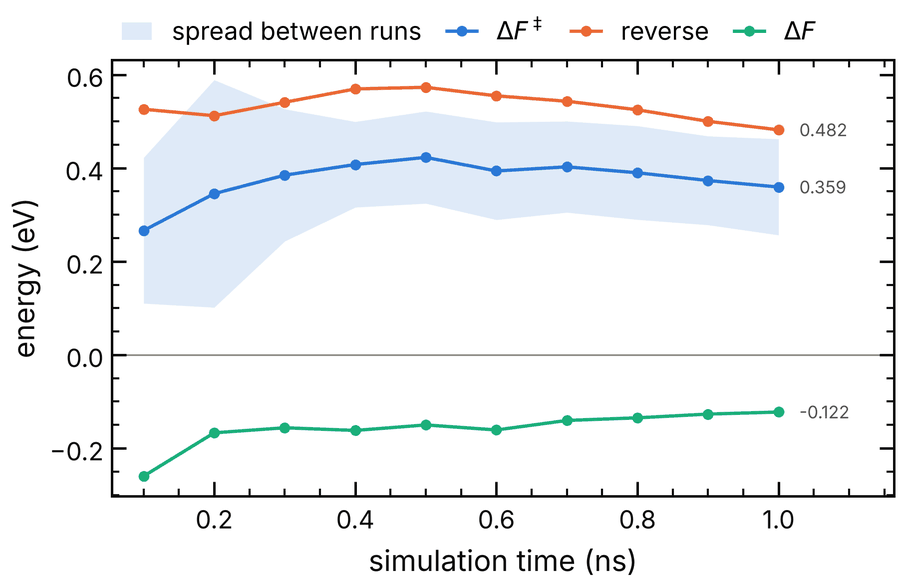
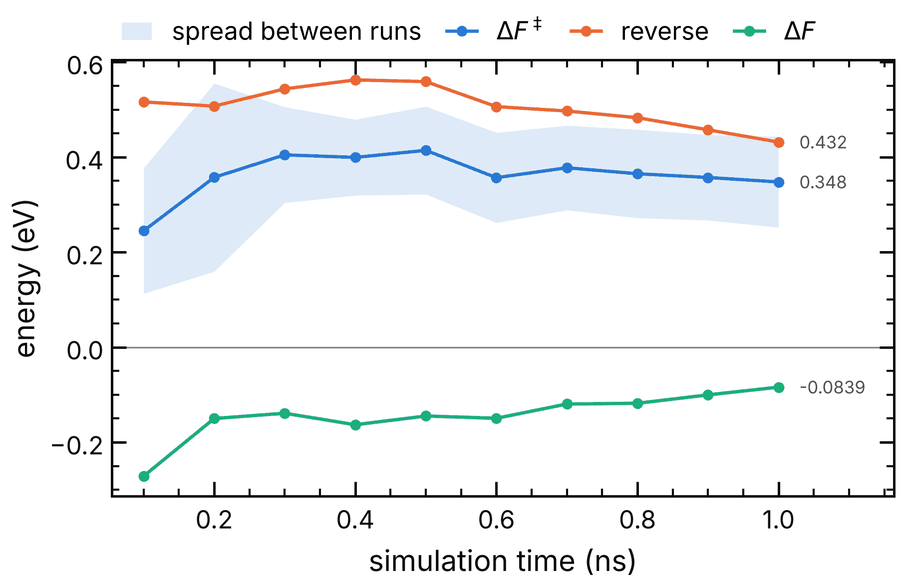
Combine runs with equal weights by default
Independent OPES simulations, even with identical inputs, have biases
shifted by different constants (OPES's normalisation, visible as different
rct), and the probability mode weights every frame by exp(V/kT) including
that shift. equal (each run's normalised density counts the same) is now
the default for reweight, combine, along-path and convergence;
--combine probability remains for runs that share one bias, e.g. time
blocks of one simulation. Quick start outputs and figures regenerated.

Claude-Session: https://claude.ai/code/session_014aybALPa8PAfTer2scbYYa

diff --git a/src/estk/cli/main.py b/src/estk/cli/main.py
@@ -245,10 +245,11 @@ def reweight(
     combine: Annotated[
         str,
         typer.Option(
-            help="Combine the runs: probability (default; = all frames together), equal "
-            "(every run counts the same), legacy (as the original scripts), none."
+            help="Combine the runs: equal (default; every run counts the same), probability "
+            "(= all frames together; for runs sharing one bias), legacy (as the original "
+            "scripts), none."
         ),
-    ] = "probability",
+    ] = "equal",
     output: Annotated[
         Path | None,
         typer.Option(
@@ -414,8 +415,8 @@ def bandwidth_command(
 def combine_files(
     files: Annotated[list[Path], typer.Argument(help="Per-run surfaces written by estk reweight.")],
     mode: Annotated[
-        str, typer.Option("--mode", "-m", help="probability (default), equal or legacy.")
-    ] = "probability",
+        str, typer.Option("--mode", "-m", help="equal (default), probability or legacy.")
+    ] = "equal",
     output: Annotated[Path, typer.Option("--output", "-o", help="Output file.")] = Path(
         "combined.dat"
     ),
@@ -664,7 +665,7 @@ def along_path(
     include_walls: Annotated[
         bool, typer.Option("--include-walls", help="Add the PLUMED wall energies to the bias.")
     ] = False,
-    combine: Annotated[str, typer.Option(help="probability (default) or equal.")] = "probability",
+    combine: Annotated[str, typer.Option(help="equal (default) or probability.")] = "equal",
     blocks: Annotated[
         int, typer.Option(help="Time blocks per run, as runs (error bar of one simulation).")
     ] = 1,
@@ -951,7 +952,7 @@ def convergence_time(
         list[str] | None, typer.Option(help="Bandwidth, e.g. d0=0.02, or scv / silverman.")
     ] = None,
     include_walls: Annotated[bool, typer.Option("--include-walls")] = False,
-    combine: Annotated[str, typer.Option(help="probability, equal or legacy.")] = "probability",
+    combine: Annotated[str, typer.Option(help="equal (default), probability or legacy.")] = "equal",
     jobs: Annotated[int, typer.Option("--jobs", "-j")] = 1,
     method: Annotated[str, typer.Option(help="Minima for the path: basins or split.")] = "basins",
     split_axis: Annotated[str | None, typer.Option(help="CV to split along.")] = None,
@@ -1003,7 +1004,7 @@ def convergence_bandwidth(
         list[str] | None, typer.Option(help="Bandwidth of the other CVs, e.g. cn=0.03.")
     ] = None,
     include_walls: Annotated[bool, typer.Option("--include-walls")] = False,
-    combine: Annotated[str, typer.Option(help="probability, equal or legacy.")] = "probability",
+    combine: Annotated[str, typer.Option(help="equal (default), probability or legacy.")] = "equal",
     jobs: Annotated[int, typer.Option("--jobs", "-j")] = 1,
     method: Annotated[str, typer.Option(help="Minima for the path: basins or split.")] = "basins",
     split_axis: Annotated[str | None, typer.Option(help="CV to split along.")] = None,

diff --git a/tests/test_combine.py b/tests/test_combine.py
@@ -59,7 +59,7 @@ def two_runs_and_merged(tmp_path_factory):
 
 def test_probability_mode_equals_reweighting_all_frames_together(two_runs_and_merged):
     runs, merged = two_runs_and_merged
-    result = runs.reweight(["d0", "cn"], points=(21, 15))
+    result = runs.reweight(["d0", "cn"], points=(21, 15), combine="probability")
     single = merged.reweight(["d0", "cn"], points=(21, 15), combine=None).surfaces["all"]
     combined = result.combined
     assert combined.metadata["combined"] == "probability"
@@ -84,7 +84,8 @@ def test_property_combination_equals_all_frames_together(two_runs_and_merged):
             q = np.sin(3 * table["d0"]) + table["cn"]
             text = "\n".join(f"{t:.8f} {v:.10f}" for t, v in zip(table.time, q, strict=True))
             (run.path / "CV-q").write_text("#! FIELDS time q\n" + text + "\n")
-    combined = runs.reweight(["d0", "cn"], quantity="q", points=(11, 9)).combined
+    combined = runs.reweight(["d0", "cn"], quantity="q", points=(11, 9),
+                             combine="probability").combined  # fmt: skip
     single = merged.reweight(["d0", "cn"], quantity="q", points=(11, 9)).surfaces["all"]
     np.testing.assert_allclose(combined.values, single.values, rtol=1e-8, atol=1e-10)
     np.testing.assert_allclose(combined.fes, single.fes, atol=1e-8)
@@ -141,7 +142,7 @@ def test_probability_mode_with_different_bandwidths():
         d2 = ((g[:, None, :] - pts[None]) / np.array(h)) ** 2
         normal = np.exp(-0.5 * d2.sum(axis=2)) / (2 * np.pi * h[0] * h[1])
         expected += (normal @ np.exp(raw)).reshape(grid.shape)
-    combined = combine(runs)
+    combined = combine(runs, mode="probability")
     f = -kbt * np.log(expected)
     np.testing.assert_allclose(combined.values, f - f.min(), atol=1e-9)
 

diff --git a/src/estk/reweight/combine.py b/src/estk/reweight/combine.py
@@ -2,12 +2,16 @@
 
 Modes
 -----
-``probability`` (default)
+``equal`` (default)
+    Average the runs' normalised densities: every run counts the same. Independent simulations
+    have biases shifted by different constants (OPES' normalisation, seen in ``rct``), which this
+    mode is insensitive to.
+``probability``
     Sum the runs' densities, each with its total weight ``sum_i exp(V_i / kT)``. This is the
-    same as reweighting all frames of all runs together. Kernels are normalised per run, so runs
-    with different bandwidths are combined correctly.
-``equal``
-    Average the runs' normalised densities: every run counts the same.
+    same as reweighting all frames of all runs together, right when the runs share one bias
+    (e.g. time blocks of one simulation) but tilted by the bias offsets between independent
+    simulations. Kernels are normalised per run, so runs with different bandwidths are
+    combined correctly.
 ``legacy``
     What the original scripts did, to compare with old ``-AVG.dat`` files: average the per-run
     free energies (each shifted to minimum 0) with run weights ``sum_i exp((V_i - V_max) / kT)``,
@@ -33,9 +37,7 @@ from estk.surface import Surface
 MODES = ("probability", "equal", "legacy")
 
 
-def combine(
-    surfaces: Mapping[str, Surface] | Sequence[Surface], mode: str = "probability"
-) -> Surface:
+def combine(surfaces: Mapping[str, Surface] | Sequence[Surface], mode: str = "equal") -> Surface:
     """Combine per-run surfaces on the same grid into one surface; see the module docstring."""
     if mode not in MODES:
         raise EstError(f"unknown combination mode '{mode}' (choose from {', '.join(MODES)})")

diff --git a/tests/test_cli.py b/tests/test_cli.py
@@ -158,17 +158,18 @@ def test_reweight_combines_and_combine_command(workdir):
     (workdir / "estk.yaml").write_text("runs:\n  pattern: '0*'\n")
     result = run("reweight", "d0", "cn", "--points", "6,5")
     assert result.exit_code == 0, result.output
-    assert "runs combined with mode 'probability'" in result.output
+    assert "runs combined with mode 'equal'" in result.output  # the default
     from estk.surface import Surface
 
     combined = Surface.load(workdir / "reweight-d0-cn" / "combined.dat")
-    assert combined.metadata["combined"] == "probability"
+    assert combined.metadata["combined"] == "equal"
+    assert combined.metadata["run_weights"] == {"000": 0.5, "001": 0.5}
 
     files = [str(p) for p in sorted((workdir / "reweight-d0-cn").glob("*.dat"))]
-    result = run("combine", *files, "--mode", "equal", "-o", "equal.dat")
+    result = run("combine", *files, "--mode", "probability", "-o", "prob.dat")
     assert result.exit_code == 0, result.output
-    assert Surface.load(workdir / "equal.dat").metadata["run_weights"] == {"000": 0.5, "001": 0.5}
-    assert run("combine", *files, "-o", "equal.dat").exit_code == 1  # exists
+    assert Surface.load(workdir / "prob.dat").metadata["combined"] == "probability"
+    assert run("combine", *files, "-o", "prob.dat").exit_code == 1  # exists
     assert "unknown mode" in run("reweight", "d0", "cn", "--combine", "mean").output
 
     result = run("reweight", "d0", "cn", "--points", "6,5", "--combine", "none", "-o", "nocomb")

diff --git a/tests/test_walkers.py b/tests/test_walkers.py
@@ -101,7 +101,8 @@ def test_pooled_surface_is_the_probability_combination(root):
     """Pooling walkers that share a bias = reweighting all their frames together."""
     pooled = Project(root / "estk.yaml").reweight(["d0", "cn"], points=(31, 21))
     (root / "estk.yaml").write_text(CONFIG.format(walkers="  walkers: separate\n"))
-    separate = Project(root / "estk.yaml").reweight(["d0", "cn"], points=(31, 21))
+    separate = Project(root / "estk.yaml").reweight(["d0", "cn"], points=(31, 21),
+                                                     combine="probability")  # fmt: skip
     assert list(separate.surfaces) == ["sim1.w0", "sim1.w1", "sim1.w2"]
     a, b = pooled.surfaces["sim1"].values, separate.combined.values
     finite = np.isfinite(a)
@@ -111,7 +112,7 @@ def test_pooled_surface_is_the_probability_combination(root):
 def test_blocks(root):
     project = Project(root / "estk.yaml")
     whole = project.reweight(["d0", "cn"], points=(31, 21)).surfaces["sim1"]
-    result = project.reweight(["d0", "cn"], points=(31, 21), blocks=3)
+    result = project.reweight(["d0", "cn"], points=(31, 21), blocks=3, combine="probability")
     assert list(result.surfaces) == ["sim1.b1", "sim1.b2", "sim1.b3"]
     assert sum(s.metadata["frames"] for s in result.surfaces.values()) == WALKERS * N
     assert result.surfaces["sim1.b2"].metadata["block_of"] == "sim1"

diff --git a/src/estk/reweight/core.py b/src/estk/reweight/core.py
@@ -206,7 +206,7 @@ def reweight(
     include_walls: bool = False,
     jobs: int = 1,
     skip_failed: bool = False,
-    combine: str | None = "probability",
+    combine: str | None = "equal",
     blocks: int = 1,
 ) -> ReweightResult:
     """Reweight every run of ``project`` onto one grid, and combine the runs.
@@ -238,7 +238,7 @@ def reweight(
         Leave out runs that fail (they are listed in ``failed``) instead of stopping.
     combine:
         How to combine the runs into ``result.combined`` (see ``estk.reweight.combine``):
-        ``"probability"``, ``"equal"``, ``"legacy"``, or None for no combination.
+        ``"equal"`` (default), ``"probability"``, ``"legacy"``, or None for no combination.
     blocks:
         Split each run into this many consecutive time blocks (``<run>.b1``, ...) and reweight
         each: the spread between them estimates the error of a single simulation, e.g. of

diff --git a/tests/test_along_path.py b/tests/test_along_path.py
@@ -74,7 +74,7 @@ def test_kde_at_points_matches_brute_force(project):
 
 
 def test_averages_and_combination(project, path):
-    result = averages_along_path(project, path, ["q"])
+    result = averages_along_path(project, path, ["q"], combine="probability")
     tables = {run.name: run.load_cvs(["d0", "cn", "q"]) for run in project.runs}
     k = 4
     for name, table in tables.items():
@@ -96,7 +96,7 @@ def test_averages_and_combination(project, path):
     np.testing.assert_allclose(result.values["q"], q_of(*path.points.T), atol=0.1)
     assert result.saddle_index == 4 and result.metadata["combined"] == "probability"
 
-    equal = averages_along_path(project, path, ["q"], combine="equal")
+    equal = averages_along_path(project, path, ["q"])  # the default
     assert not np.allclose(equal.values["q"], result.values["q"])
 
 

diff --git a/src/estk/analysis/convergence.py b/src/estk/analysis/convergence.py
@@ -153,7 +153,7 @@ def barrier_convergence(
     if not values:
         raise EstError("no values to scan")
     options = dict(reweight_options or {})
-    combine = options.pop("combine", "probability") or "probability"
+    combine = options.pop("combine", "equal") or "equal"
     for key in ("time", "quantity", "source"):
         if key in options:
             raise EstError(f"'{key}' can't be set in reweight_options here")

diff --git a/src/estk/analysis/along_path.py b/src/estk/analysis/along_path.py
@@ -109,7 +109,7 @@ def averages_along_path(
     bandwidth: Mapping[str, float] | None = None,
     bandwidth_method: str | None = None,
     include_walls: bool = False,
-    combine: str = "probability",
+    combine: str = "equal",
     blocks: int = 1,
 ) -> AlongPathResult:
     """Average ``quantities`` at each image of ``path`` (a path computed by ``estk mep``).

diff --git a/docs/quickstart.md b/docs/quickstart.md
@@ -184,11 +184,11 @@ grid d0: 1.5 (estk.yaml) to 2.5 (estk.yaml), 100 points
 grid cn: 0.75 (estk.yaml) to 2.2 (PLUMED walls), 100 points
  run   frames   n_eff   h(d0)       h(cn)       weight   past walls
                         silverman   silverman
- 000   2121     81      0.02018     0.05799     0.256    d0 upper 2.2: 457 frames, max 14.1 kT
- 001   2152     92      0.01794     0.04884     0.199    ...
- 002   2122     30      0.0207      0.04843     0.051
- 003   2102     186     0.01644     0.04333     0.495
-runs combined with mode 'probability' -> combined.dat
+ 000   2121     81      0.02018     0.05799     0.250    d0 upper 2.2: 457 frames, max 14.1 kT
+ 001   2152     92      0.01794     0.04884     0.250    ...
+ 002   2122     30      0.0207      0.04843     0.250
+ 003   2102     186     0.01644     0.04333     0.250
+runs combined with mode 'equal' -> combined.dat
 wrote 5 file(s) to reweight-d0-cn/
 ```
 
@@ -205,7 +205,7 @@ This writes one surface per run, `reweight-d0-cn/000.dat` ..., and all runs comb
 | `--bandwidth d0=0.02` | kernel bandwidth of one CV |
 | `--bandwidth scv` | bandwidths by smoothed cross-validation (or `silverman`) |
 | `--include-walls` | add the PLUMED wall energies to the bias |
-| `--combine equal` | each run counts the same (default `probability`: as if all frames were one run; `legacy`: as the old scripts) |
+| `--combine probability` | weight each run by its frames' total weight, as if all frames were one run (default `equal`: each run counts the same; `legacy`: as the old scripts). Only for runs sharing one bias: independent simulations have bias offsets (different `rct`) that tilt it |
 | `--property max_devi_f --source model_devi.out` | average of a quantity instead of the free energy |
 | `--blocks 4` | split each run into 4 time blocks (`000.b1`, ...): their spread is an error bar for one simulation |
 | `--compress` | write `.dat.gz` files |
@@ -247,15 +247,15 @@ bandwidths, runs and their weights, and time ranges.
 ```console
 $ estk mep reweight-d0-cn/combined.dat
  minimum   d0      cn      F (kj/mol)   depth (kT)
- 1         1.864   0.999   0.000        global
- 2         2.106   1.98    11.208       11.81
-path from (d0=2.106, cn=1.98) to (d0=1.864, cn=0.999), 15 images
+ 1         1.874   0.984   0.000        global
+ 2         2.106   1.98    8.046        11.24
+path from (d0=2.106, cn=1.98) to (d0=1.874, cn=0.9843), 15 images
 ends: start nearest cn=2 (reaction.start); end the lowest other minimum
-barrier          34.161 kj/mol = 0.3540 eV = 11.74 kT
-reverse barrier  45.369 kj/mol = 0.4702 eV = 15.59 kT
-reaction         -11.208 kj/mol = -0.1162 eV = -3.85 kT
-barrier on each run along this path (kj/mol): 000: 42.44, 001: 43.29, 002: 31.94, 003: 63.12
-  spread between runs: 11.27 kj/mol
+barrier          32.687 kj/mol = 0.3388 eV = 11.23 kT
+reverse barrier  40.733 kj/mol = 0.4222 eV = 14.00 kT
+reaction         -8.046 kj/mol = -0.0834 eV = -2.77 kT
+barrier on each run along this path (kj/mol): 000: 42.48, 001: 43.27, 002: 31.91, 003: 62.23
+  spread between runs: 10.93 kj/mol
 wrote reweight-d0-cn/combined.mep.dat
 ```
 
@@ -280,9 +280,9 @@ wrote reweight-d0-cn/combined.mep.dat
 ```console
 $ estk along-path reweight-d0-cn/combined.mep.dat dOOliq_min dOO2c_min
  quantity           start           highest point   end
- dOOliq_min         2.6 ± 0.028     2.634 ± 0.021   2.679 ± 0.03
- dOO2c_min          2.758 ± 0.069   2.696 ± 0.052   2.707 ± 0.054
- effective frames   216             324             267
+ dOOliq_min         2.591 ± 0.015   2.629 ± 0.023   2.666 ± 0.03
+ dOO2c_min          2.716 ± 0.063   2.688 ± 0.055   2.692 ± 0.06
+ effective frames   216             308             268
 wrote reweight-d0-cn/combined.along.png
 wrote reweight-d0-cn/combined.along.dat
 ```
@@ -487,8 +487,8 @@ estk reweight d0 cn --blocks 4
 estk mep reweight-d0-cn/combined.dat     # barrier on each block, and their spread
 ```
 
-The `probability` combination of the blocks is the surface of the whole simulation. The spread
-between blocks is about √4 times the standard error of that surface. Drop the start-up period
+The combined surface is the average of the blocks (`--combine probability` gives exactly the
+whole simulation's surface instead). The spread between blocks is about √4 times the standard error of that surface. Drop the start-up period
 first (`--time <start> inf`, see `estk check opes`), so the blocks don't include it. Two
 independent multi-walker simulations (`000/`, `001/`) give an error bar that doesn't depend on
 the bias having settled.

diff --git a/REFACTOR.md b/REFACTOR.md
@@ -309,8 +309,9 @@ Notes on what was built:
 - **Blocks** (`estk reweight --blocks N`): walkers that share a bias are not independent, so
   their spread is no error bar. Each run is cut into N equal spans of time (`<run>.b<k>`, all
   walkers together); the blocks are reweighted and combined like runs, so their spread
-  (`fes.err`, the barrier on each block in `estk mep`) estimates the error, and their
-  `probability` combination is the whole run's surface.
+  (`fes.err`, the barrier on each block in `estk mep`) estimates the error. Their
+  `probability` combination (`--combine probability`) is exactly the whole run's surface; the
+  default `equal` averages the blocks, which is close to it.
 - k_B T uses CODATA R = 8.314462618e-3 kJ/(mol K) (the old code used 8.3144621e-3; the relative
   difference is 1e-8) and is given in the energy units of the bias.
 
@@ -517,7 +518,11 @@ Notes on what was built:
 recombine saved per-run files without reweighting again. Tested in `tests/test_combine.py` and
 `tests/test_regression_old_code.py`.
 
-**Decided:** the corrected weighting (`probability`) is the default.
+**Decided:** `equal` is the default (it was `probability` at first). Independent OPES
+simulations, even with identical inputs, have biases shifted by different constants (OPES's
+normalisation Z, visible as different `rct`), and `probability` weights each simulation's
+frames by e^(V/kT) including that shift. `equal` is insensitive to it. `probability` remains
+right for runs that share one bias (time blocks of one simulation).
 
 Notes on what was built:
 - `probability`: runs are summed as densities, each with weight sum exp(V/kT) computed without
@@ -536,9 +541,10 @@ Notes on what was built:
 - On the 4 real test runs, `probability` and `legacy` give run weights 0.26/0.20/0.05/0.49 vs
   0.26/0.27/0.06/0.41 and surfaces that differ by 0.5 kT rms in the region below 5 kT; the
   spread between the runs themselves is 0.6 kT there.
-- Caveat to keep in mind: `probability` trusts that the bias offsets of independent runs are
-  comparable (as OPES's normalisation intends). If one run dominates the weights, compare with
-  `--combine equal`.
+- Caveat that made `equal` the default: `probability` trusts that the bias offsets of
+  independent runs are comparable. On four identical multi-walker simulations `rct` differed
+  by up to 1.2 kJ/mol after 4 ns, a factor 1.5 in the weight of every frame. A correction by
+  c(t) (weights e^((V - c(t))/kT)) would make `probability` usable across simulations.
 
 ### Current state
 - `reweight_property.run` reads all per-run files back from disk, weights each run by
